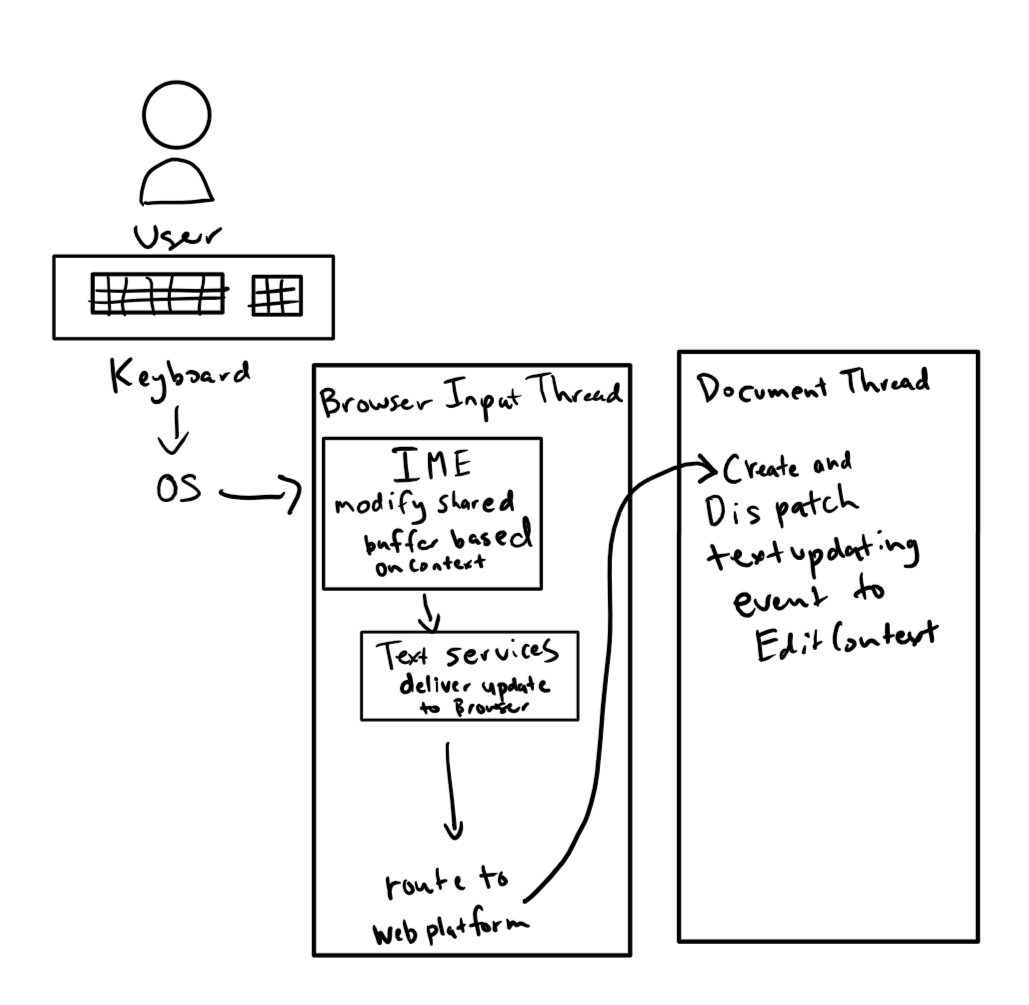
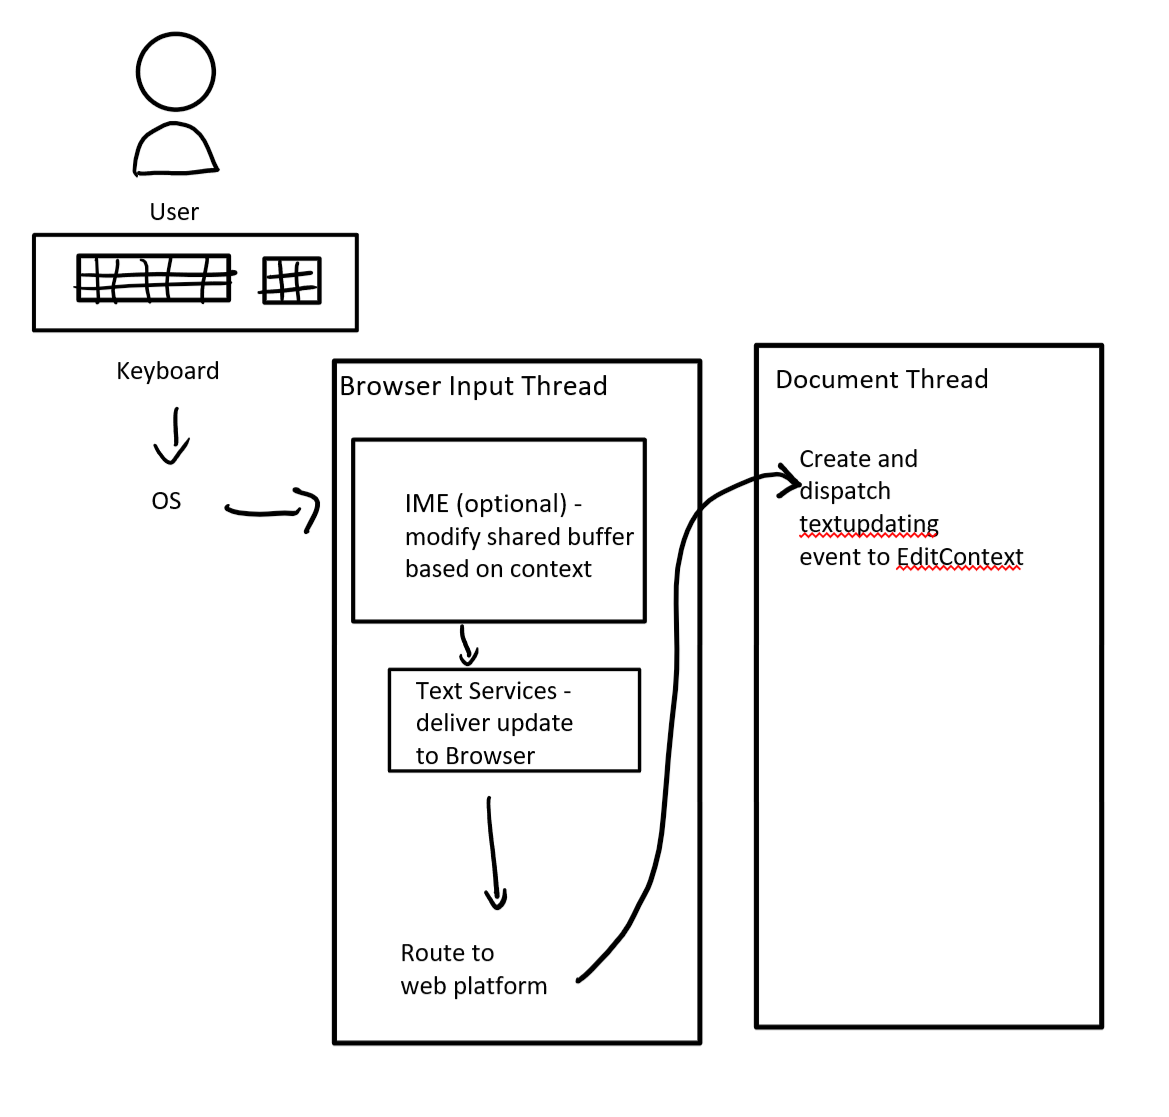
Add description of flow

Changed region(s): [[0.0, 0.0308, 0.964, 0.9562]]

diff --git a/explainer.md b/explainer.md
@@ -30,7 +30,10 @@ After creating an EditContext object, the web application should initialize the 
 
 ## Text Flow
 
+### Basic
 ![text flow](textflow_basic.png)
+
+The typical flow of text input begins when the user presses a key on the keyboard. The OS sees the key press and and delivers a message to the browser's input thread. The browser's input thread will route this to the appropriate document thread. If an EditContext has focus, the keydown event will be fired on that EditContext. As part of handling the key down on the input thread, the IME (if in use) will also be fed the key. It may choose to interpret that key differently depending on the input language --- the IME will then inform the text services framework to update the shared buffer. The text service will then tell the browser about this update, which eventually gets routed to the EditContext via the ```textupdating``` event. The user then lifts their finger from the key - the OS again delivers a message to the browser's input thread, and following the previous flow, keyup will be dispatched on the EditContext.
 
 ## API Details
 
